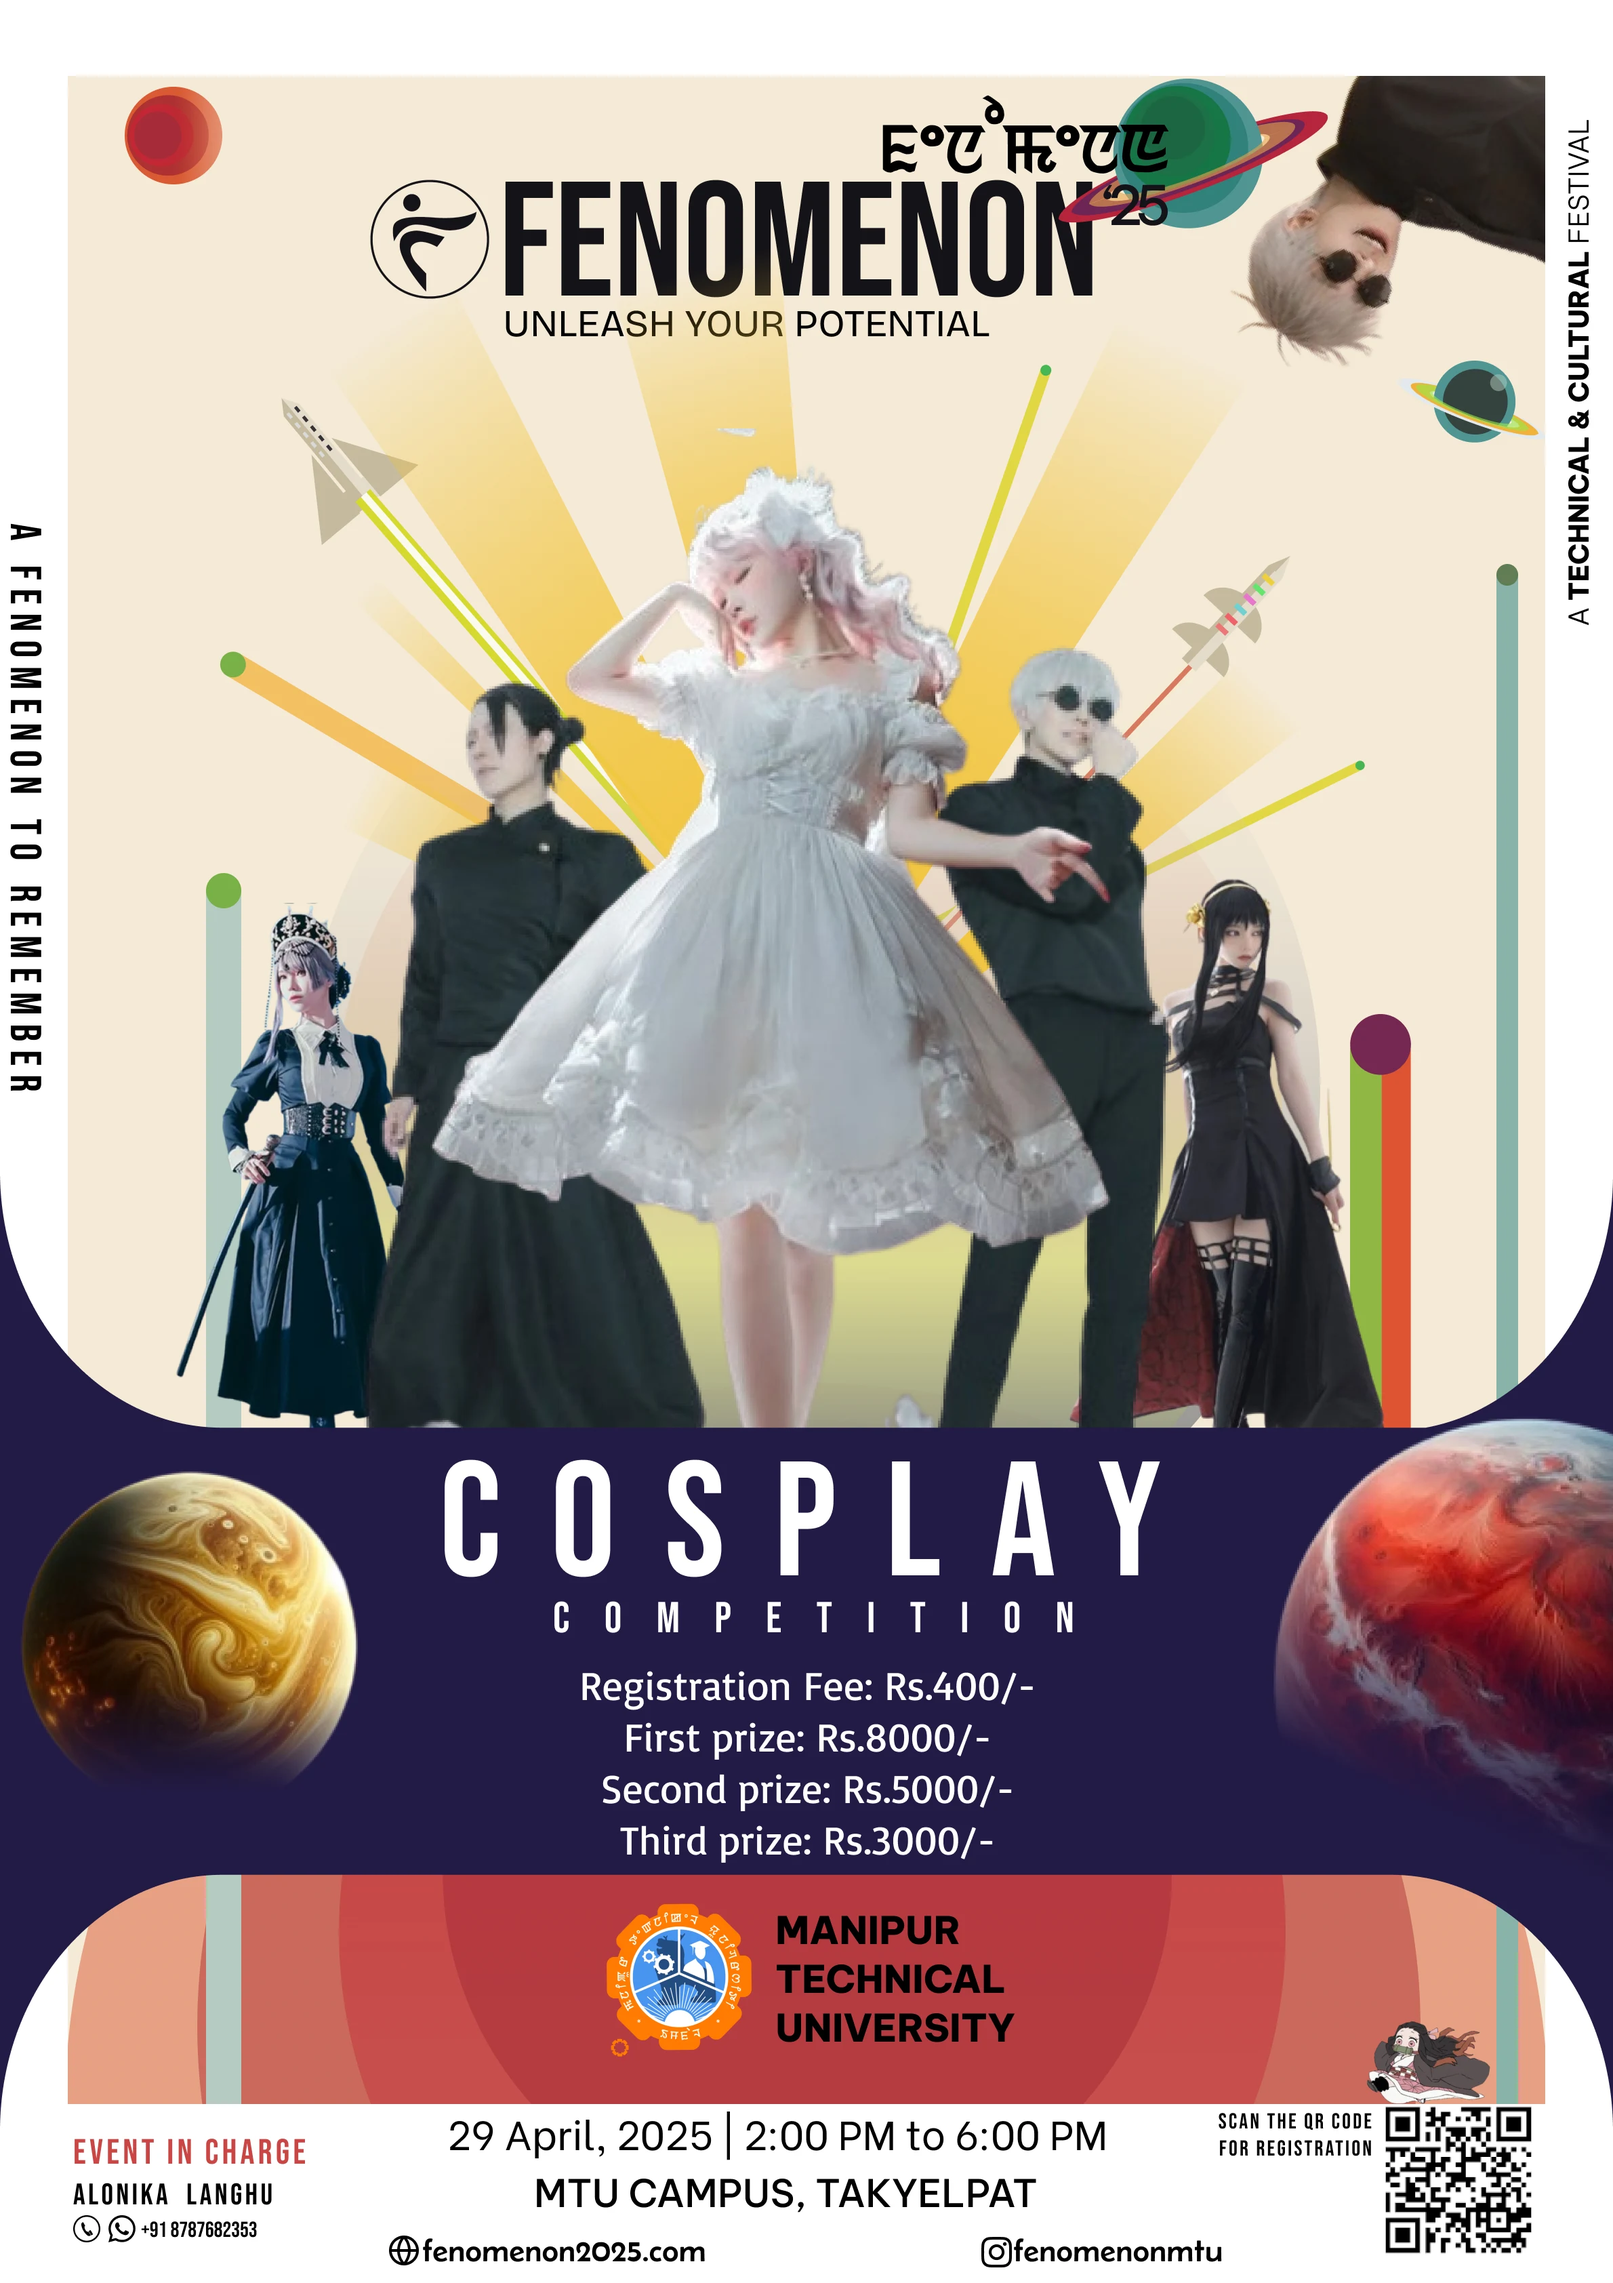
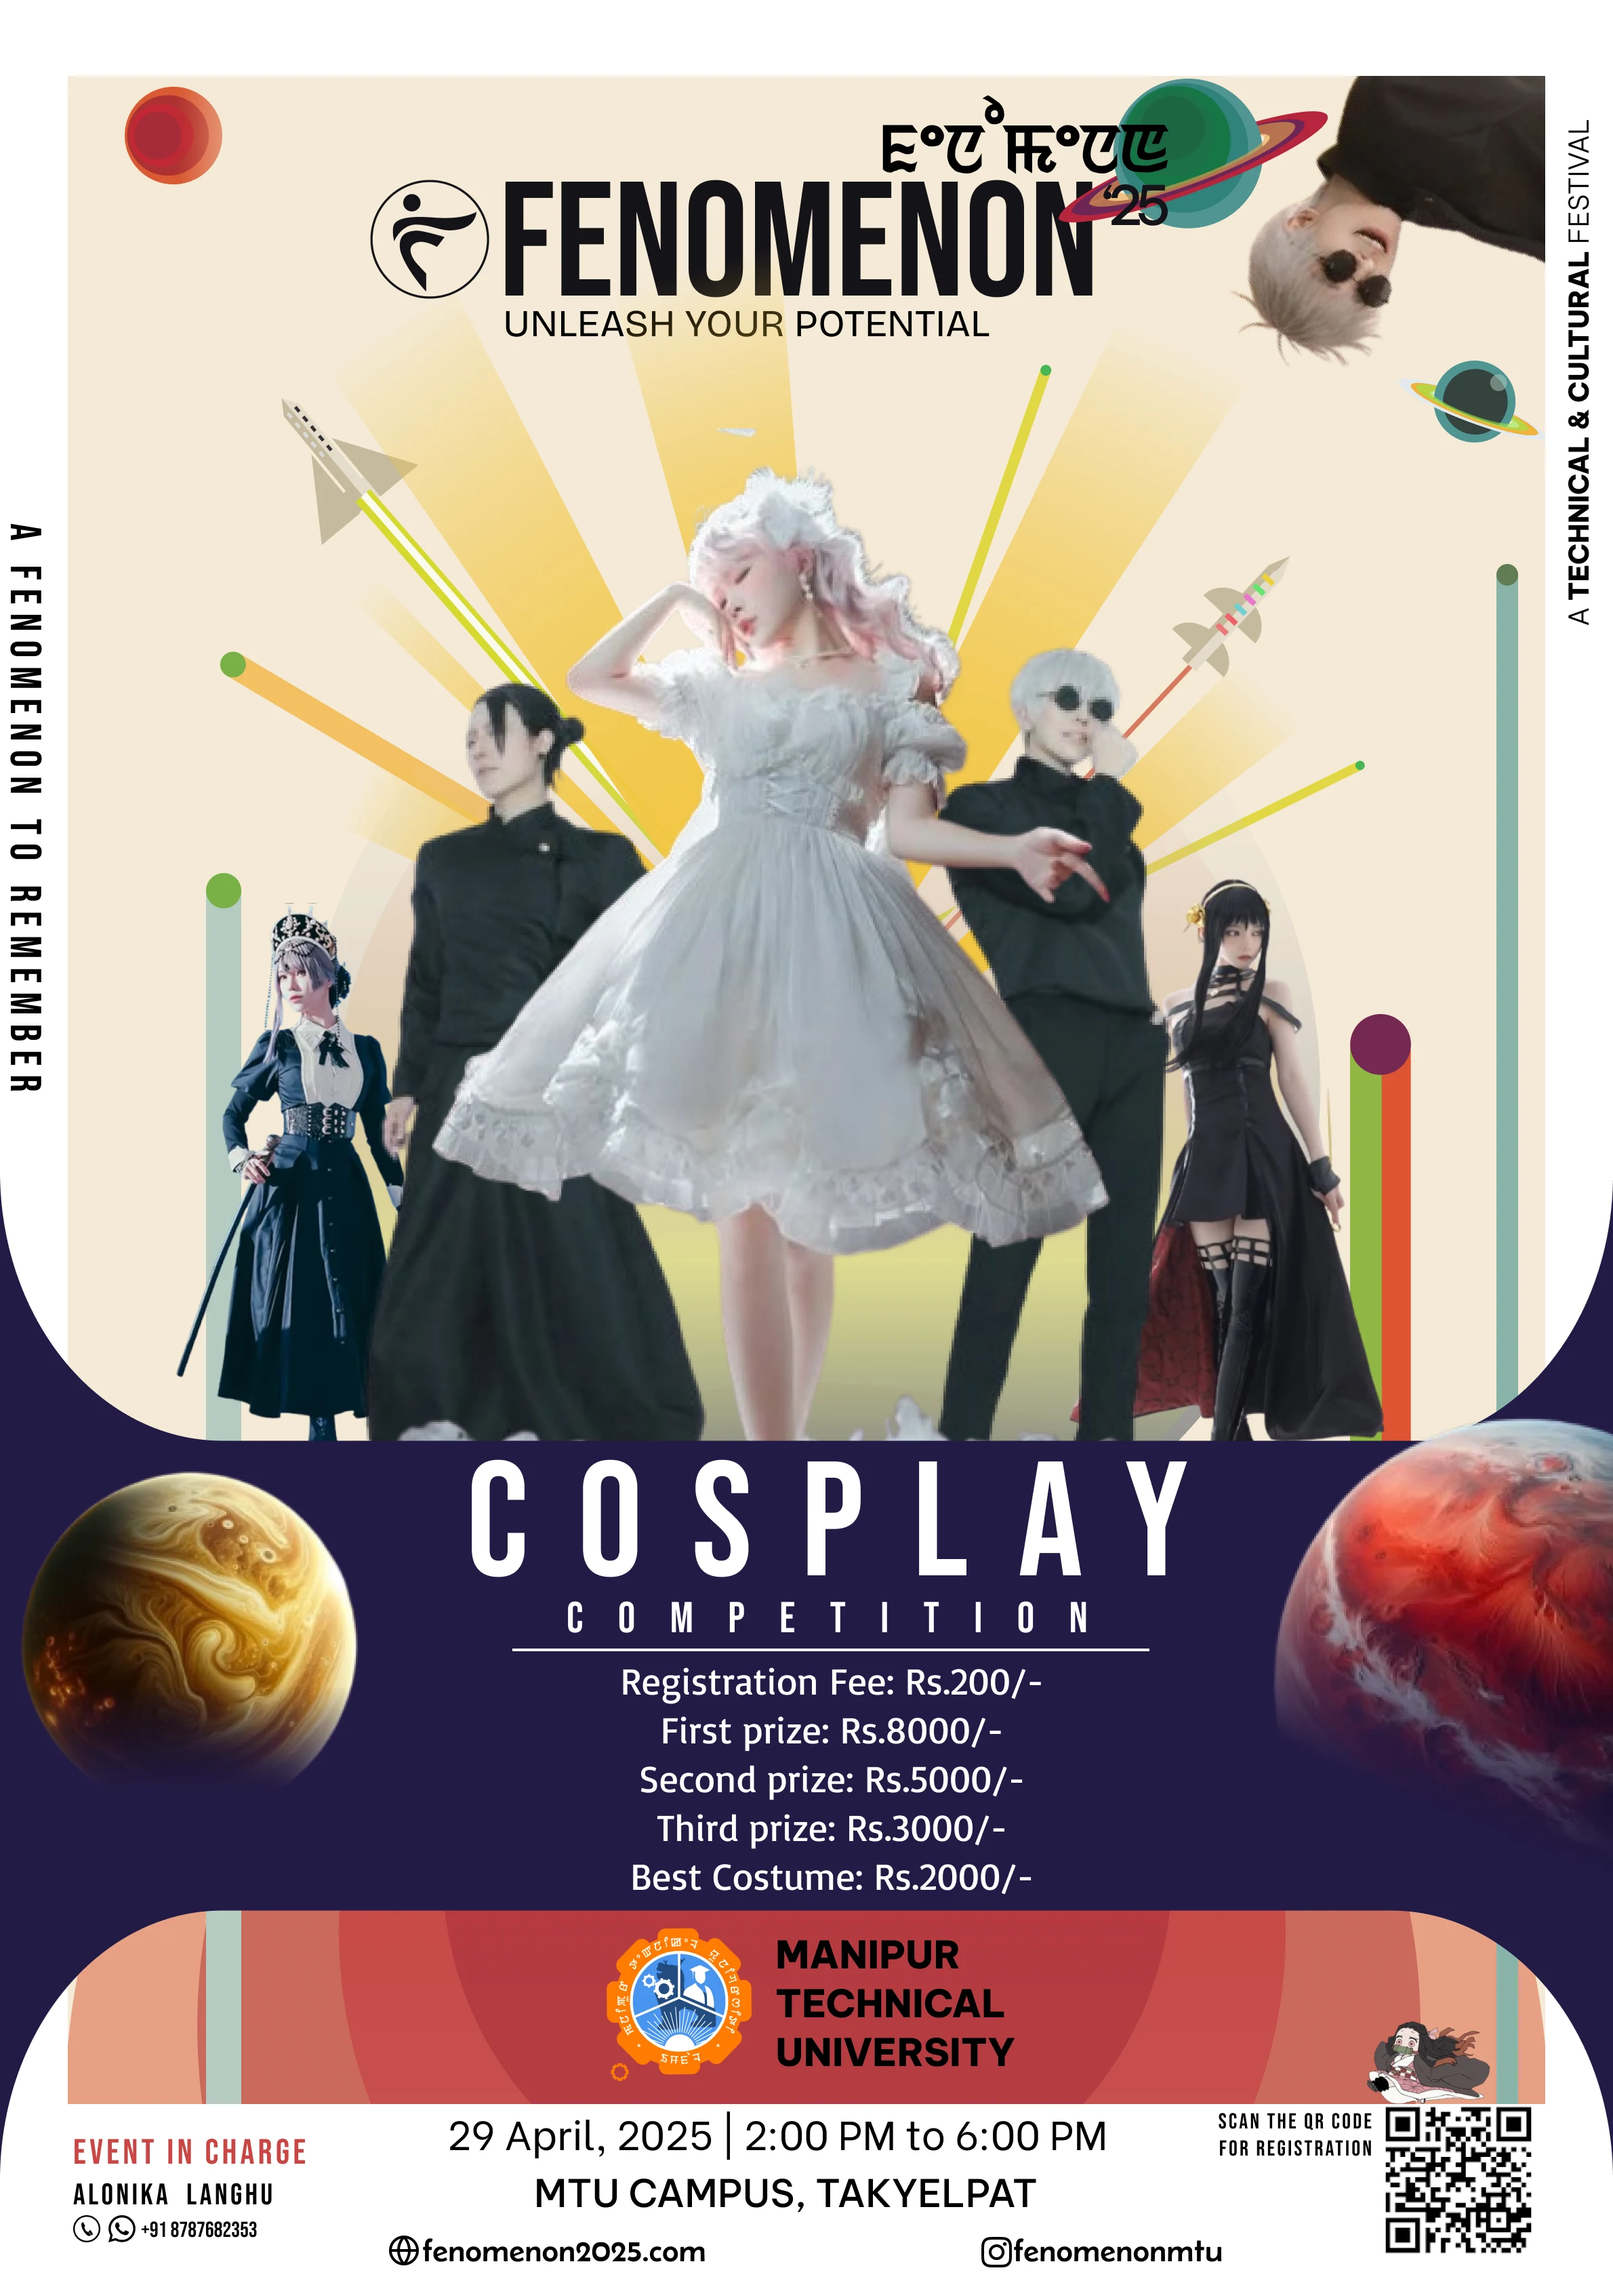
sponsors updated

diff --git a/src/pages/sponsors.jsx b/src/pages/sponsors.jsx
@@ -3,7 +3,7 @@ import Upsection from '../common/upSection'
 import { UpsectionContent } from '../DataJs/upSecData'
 import Particles, { initParticlesEngine } from "@tsparticles/react"
 import { loadSlim } from "@tsparticles/slim"
-import { allSponsorList } from '../DataJs/SponsorList'
+import { associateSponsorList, coTitleSponsorList, supportingSponsorList, titleSponsorList } from '../DataJs/SponsorList'
 import SponsorCard from '../common/sponsorCard'
 
 function Team() {
@@ -106,22 +106,54 @@ function Team() {
       <Upsection title={UpsectionContent[3].title} description={UpsectionContent[3].description}  /> 
       <div className='h-36 md:h-12'></div>  
       <div className='relative p-4'>
-        <div className='mt-7'>
+        <div>
           <div>
-            <p className='text-3xl text-white md:text-5xl text-center mb-3 md:mb-9 font-bold'>Our Sponsors</p>
-            <div className='mx-auto grid grid-cols-1 md:grid-cols-5 p-5 gap-y-4 md:gap-y-10 gap-x-1 justify-center items-center place-items-center '>
-            {/* <div className='mx-auto flex flex-col md:flex-row md:space-x-5 space-y-5 md:space-y-0 items-center justify-center'> */}
+            <p className='text-3xl text-white md:text-5xl text-center md:mb-9 font-bold'>Title Sponsors</p>
+            {/* <div className='mx-auto grid grid-cols-1 md:grid-cols-5 p-5 gap-y-4 md:gap-y-10 gap-x-1 justify-center items-center place-items-center '> */}
+            <div className='mx-auto flex flex-col flex-wrap md:flex-row gap-5 md:gap-10 md:gap-7 items-center justify-center'>
               {
-                allSponsorList.map((item,index)=>(
+                titleSponsorList.map((item,index)=>(
                   <SponsorCard key={index} img={item.img} name={item.name} />
                 ))
               }              
             </div>
           </div>
-          
-          
-
-
+        </div>
+        <div className='mt-7 md:mt-28'>
+          <div>
+            <p className='text-3xl text-white md:text-5xl text-center md:mb-9 font-bold'>Co-Title Sponsors</p>
+            <div className='mx-auto flex flex-col flex-wrap md:flex-row gap-5 md:gap-10 md:gap-7 items-center justify-center'>
+              {
+                coTitleSponsorList.map((item,index)=>(
+                  <SponsorCard key={index} img={item.img} name={item.name} />
+                ))
+              }              
+            </div>
+          </div>
+        </div>
+        <div className='mt-7 md:mt-28'>
+          <div>
+            <p className='text-3xl text-white md:text-5xl text-center md:mb-9 font-bold'>Associate Sponsors</p>
+            <div className='mx-auto flex flex-col flex-wrap md:flex-row gap-5 md:gap-10 md:gap-7 items-center justify-center'>
+              {
+                associateSponsorList.map((item,index)=>(
+                  <SponsorCard key={index} img={item.img} name={item.name} />
+                ))
+              }              
+            </div>
+          </div>
+        </div>
+        <div className='mt-7 md:mt-28'>
+          <div>
+            <p className='text-3xl text-white md:text-5xl text-center md:mb-9 font-bold'>Supporting Sponsors</p>
+            <div className='mx-auto flex flex-col flex-wrap md:flex-row gap-5 md:gap-10 items-center justify-center'>
+              {
+                supportingSponsorList.map((item,index)=>(
+                  <SponsorCard key={index} img={item.img} name={item.name} />
+                ))
+              }              
+            </div>
+          </div>
         </div>
       </div>
     </div>

diff --git a/src/DataJs/CompetitionList.js b/src/DataJs/CompetitionList.js
@@ -41,7 +41,7 @@ export const CompetitionList=[
             first: "₹8000",
             second: "₹5000",
             third: "₹3000",
-            consolation: null
+            consolation: "₹2000(best costume)"
         },       
         
         isCategorized:false,
@@ -85,7 +85,7 @@ export const CompetitionList=[
                 fee:null
             }
         },
-        fee:"₹400",
+        fee:"₹200",
         incharge:"Alonika Langhu",
         contact:"+91 8787682353",
         deadline:"26th April, 2025",
@@ -288,7 +288,7 @@ export const CompetitionList=[
         fee:"₹700",
         incharge:"Longjam Venus Singh",
         contact:"+91 7005068545",
-        deadline:"22nd April, 2025(Qualifying rounds will be started on 23rd April online)",
+        deadline:"26th April, 2025",
         registration:"https://forms.gle/7rRuSqxWPkuFTeMt9",
         guidelines:"https://docs.google.com/document/d/e/2PACX-1vRT2wEYj6g5ovYBsO1tm61Q-bS9GC0hQbud3wRc2Jm4Godzawpph40sO7WzPCzmzA/pub",
     },
@@ -353,7 +353,7 @@ export const CompetitionList=[
         fee:"₹800",
         incharge:"Konsam Bikash Singh",
         contact:"+91 9863124645",
-        deadline:"22nd April, 2025 (Qualifying rounds will be started on 25th,26th and 27th April online)",
+        deadline:"26th April, 2025",
         registration:"https://forms.gle/1bWsgpynATNehzMNA",
         guidelines:"https://docs.google.com/document/d/e/2PACX-1vSxEbvvDhZKhZNEZ_5-4TskDGy3HBQRFz0Wq17aXgfYJ73KUAC8Rf1iKsNc5h6kDA/pub",
     },
@@ -431,7 +431,7 @@ export const CompetitionList=[
         description:"Unleash your rhythm and set the stage on fire at FENOMENON’s Dance Competition! Whether you groove solo or move as a team, this is your chance to captivate the crowd with breathtaking performances. Choose your style—Cultural, Modern or K-Pop—and bring your A-game to the ultimate dance showdown. Get ready to mesmerize, compete and own the spotlight!",
         date:"29TH APRIL 2025",
         time:"10:00 AM",
-        venue:"MANIPUR TECHNICAL UNIVERSITY CAMPUS",
+        venue:"MANIPUR TECHNICAL UNIVERSITY NEW BLOCK",
         cashPrize: {
             first: null,
             second: null,
@@ -483,7 +483,7 @@ export const CompetitionList=[
         fee:null,
         incharge:"Krishnakanta Soibam",
         contact:"+91 9362658468",
-        deadline:"24th April, 2025",
+        deadline:"26th April, 2025",
         registration:"https://forms.gle/Md3eS4Q8bnjFLNdR7",
         guidelines:"https://docs.google.com/document/d/e/2PACX-1vTsLuSJgU1t3lB8fCalPC2_fjW62BD126DFuWtnpvnq_ABfYMEk_TJVi8KjIny7CA/pub",
     },

diff --git a/src/DataJs/SponsorList.js b/src/DataJs/SponsorList.js
@@ -1,8 +1,12 @@
 
-import codexp from '../assets/sponsors/codexp.png';
+// import codexp from '../assets/sponsors/codexp.png';
 import medilane from '../assets/sponsors/medilane.webp';
 import LBandSons from '../assets/sponsors/LBandSons.webp';
 import globiz from '../assets/sponsors/globiz.png';
+import nibiaa from '../assets/sponsors/nibiaa.webp';
+import babina from '../assets/sponsors/babina.webp';
+import shija_hospitals from '../assets/sponsors/shija_hospitals.webp';
+import tech_dukan from '../assets/sponsors/tech_dukan.webp'
 
 
 
@@ -18,8 +22,8 @@ export const allSponsorList = [
     },
     {
         id:2,
-        img:codexp,
-        name:"CODEXP"
+        img:tech_dukan,
+        name:"SKCC"
     },
     {
         id:3,
@@ -36,21 +40,76 @@ export const allSponsorList = [
         img:globiz,
         name:"Globizs"
     },
-    
+    {
+        id:6,
+        img:nibiaa,
+        name:"Nibiaa"
+    },
+    {
+        id:7,
+        img:babina,
+        name:"BABINA Hospital"
+    },
+    {
+        id:8,
+        img:shija_hospitals,
+        name:"Shija Hospitals"
+    },
+   
 ]
 
 export const titleSponsorList = [
     {
         id:1,
-        img:codexp,
-        name:"CODEXP"
+        img:medilane,
+        name:"Medilane"
     },
 ]
 
-export const coTitleList = [
+export const coTitleSponsorList = [
     
-    {id:1,
+    {
+        id:1,
+        img:globiz,
+        name:"Globizs"
+    },  
+    {
+        id:2,
+        img:LBandSons,
+        name:"M/S L.B & SONS"
+    },   
+    {
+        id:3,
+        img:babina,
+        name:"BABINA Hospital"
+    },
+    {
+        id:4,
+        img:shija_hospitals,
+        name:"Shija Hospitals"
+    },         
+]
+
+export const associateSponsorList = [
+
+    {
+        id:6,
+        img:nibiaa,
+        name:"Nibiaa"
+    },
+    {
+        id:3,
         img:leipun,
         name:"Leipun The Boukay"
-    },    
+    }    
+
+]
+
+export const supportingSponsorList = [
+    
+    {
+        id:1,
+        img:tech_dukan,
+        name:"SKCC"
+    },  
 ]

diff --git a/src/pages/event.jsx b/src/pages/event.jsx
@@ -177,7 +177,7 @@ const Event = () => {
             <div>
               <p className='text-3xl md:text-5xl px-4 py-5 text-center font-bold'>Performing Artists</p>
               {/* <div className='mt-4 mx-auto grid grid-cols-1 md:grid-cols-2 lg:grid-cols-3 2xl:grid-cols-3 gap-y-5  place-items-center  '> */}
-              <div className='flex flex-col gap-10 md:flex-row items-center justify-center mx-auto'>
+              <div className='flex flex-col flex-wrap gap-10 md:flex-row items-center justify-center mx-auto'>
                 <EventCard img={diana} name="Diana Moirangthem"/>
                 <EventCard img={yelhomie} name="Yelhomie"/>
               </div>
@@ -185,8 +185,8 @@ const Event = () => {
 
             <div className='my-20'>
               <p className='text-3xl md:text-5xl px-4 py-5 text-center font-bold'>Performing Bands</p>
-              <div className='mt-4 mx-auto grid grid-cols-1 md:grid-cols-2 lg:grid-cols-3 2xl:grid-cols-3 gap-y-10  place-items-center '>
-              {/* <div className='flex mt-4 flex-col md:flex-row gap-8 md:gap-20 items-center justify-center'> */}
+              {/* <div className='mt-4 mx-auto grid grid-cols-1 md:grid-cols-2 lg:grid-cols-3 2xl:grid-cols-3 gap-y-10  place-items-center '> */}
+              <div className='flex flex-wrap mt-4 flex-col md:flex-row gap-8 md:gap-20 items-center justify-center'>
                 <EventCard img={innocent_eyes} name="Innocent Eyes"/>
                 <EventCard img={meewakching} name="Meewakching"/>
                 <EventCard img={ocean_skies} name="Ocean Skies"/>
